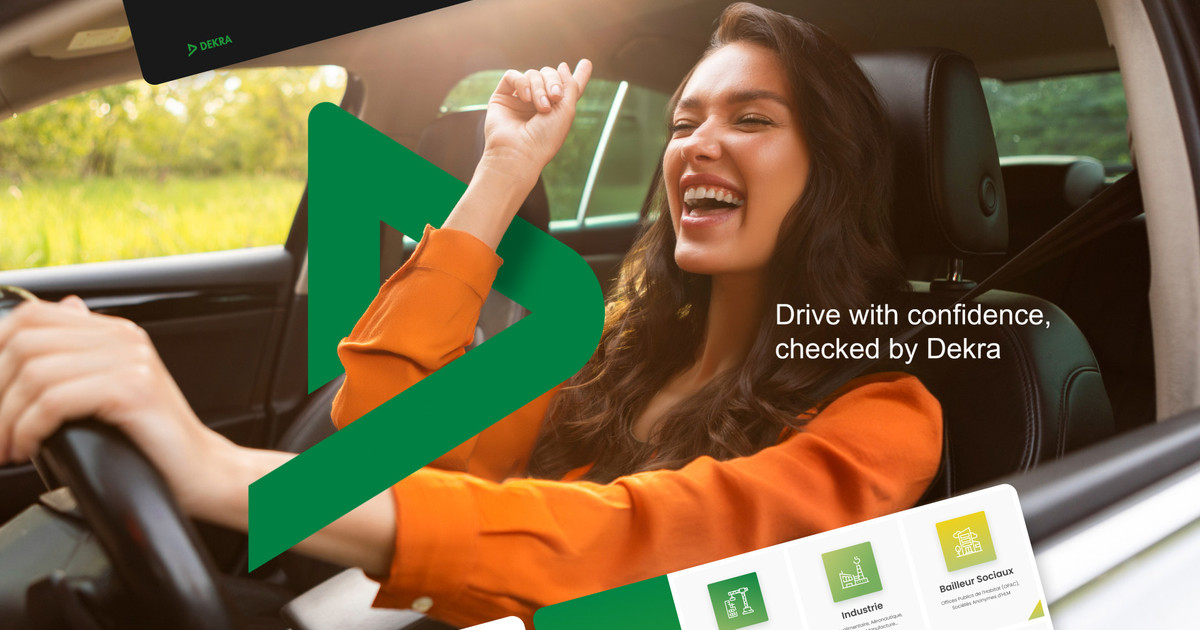
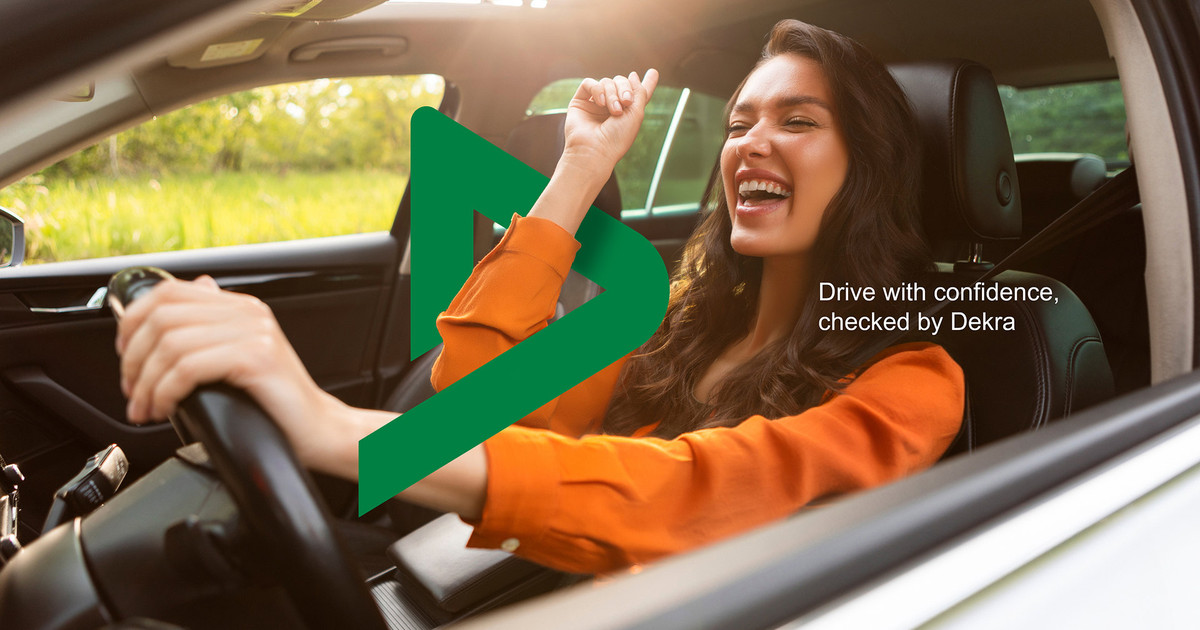
content(couvertures): nouvelles images de couverture pour sept projets
Visuels 1920x1280 fournis par Sujee, q86 4:4:4, ranges dans
public/assets/img/projet/<slug>/cover.jpg. Les cartes, le film, la vignette
du projet suivant et les images de partage suivent.

diff --git a/web/content/projects.ts b/web/content/projects.ts
@@ -99,6 +99,12 @@ export const projects: Project[] = [
         ],
       },
     ],
+    cover: {
+      src: "/assets/img/projet/club-med/cover.jpg",
+      alt: "Plage turquoise et logo Club Med, ouverture du système TEd",
+      width: 1920,
+      height: 1280,
+    },
     images: [
       {
         src: "/assets/img/projet/club-med/02.jpg",
@@ -179,10 +185,10 @@ export const projects: Project[] = [
       },
     ],
     cover: {
-      src: "/assets/img/projet/saft-energy-storage/02.jpg",
-      alt: "Choix du personnage dans le jeu Saft Energy Storage",
+      src: "/assets/img/projet/saft-energy-storage/cover.jpg",
+      alt: "Super-héros du jeu Energy Storage, Saft a Total Company",
       width: 1920,
-      height: 1080,
+      height: 1280,
     },
     images: [
       {
@@ -257,10 +263,10 @@ export const projects: Project[] = [
       },
     ],
     cover: {
-      src: "/assets/img/projet/lg-sales-talk/03.jpg",
-      alt: "Écran d’arguments produit LG Sales talk",
+      src: "/assets/img/projet/lg-sales-talk/cover.jpg",
+      alt: "Femme vue à travers le hublot d'une machine à laver LG",
       width: 1920,
-      height: 1080,
+      height: 1280,
     },
     images: [
       {
@@ -341,10 +347,10 @@ export const projects: Project[] = [
       },
     ],
     cover: {
-      src: "/assets/img/projet/dekra/03.jpg",
-      alt: "Diapositive DEKRA, mise en page des objectifs",
+      src: "/assets/img/projet/dekra/cover.jpg",
+      alt: "Conductrice souriante, campagne Drive with confidence de DEKRA",
       width: 1920,
-      height: 1080,
+      height: 1280,
     },
     images: [
       {
@@ -419,6 +425,12 @@ export const projects: Project[] = [
         ],
       },
     ],
+    cover: {
+      src: "/assets/img/projet/analog-way/cover.jpg",
+      alt: "Processeur Ascender 48 devant le site Analog Way, InfoComm 2015",
+      width: 1920,
+      height: 1280,
+    },
     images: [
       {
         src: "/assets/img/projet/analog-way/01.jpg",
@@ -497,6 +509,12 @@ export const projects: Project[] = [
         ],
       },
     ],
+    cover: {
+      src: "/assets/img/projet/evenement-spectacle/cover.jpg",
+      alt: "Danseuse en jupe rouge sur l'accueil de L'Événement Spectacle",
+      width: 1920,
+      height: 1280,
+    },
     images: [
       {
         src: "/assets/img/projet/evenement-spectacle/01.jpg",
@@ -564,10 +582,10 @@ export const projects: Project[] = [
       },
     ],
     cover: {
-      src: "/assets/img/projet/elerya/04.jpg",
-      alt: "Déclinaison Elerya sur un gabarit e-commerce",
+      src: "/assets/img/projet/elerya/cover.jpg",
+      alt: "Sac Elerya porté en extérieur, direction photo de la collection",
       width: 1920,
-      height: 1080,
+      height: 1280,
     },
     images: [
       {
